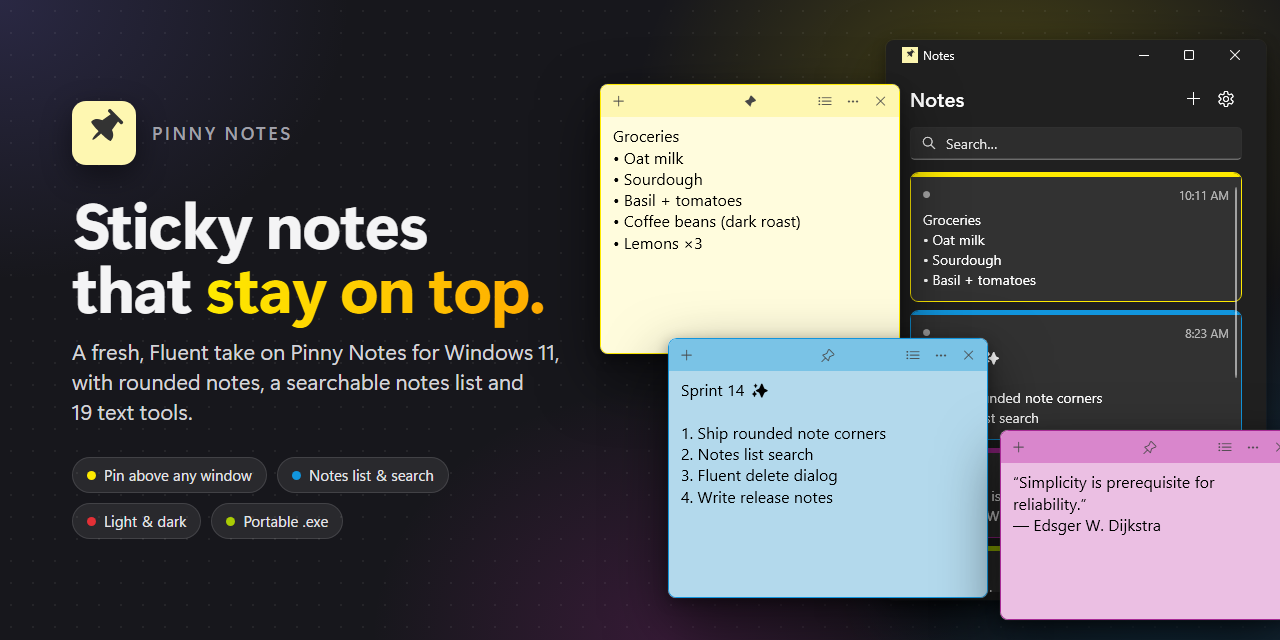
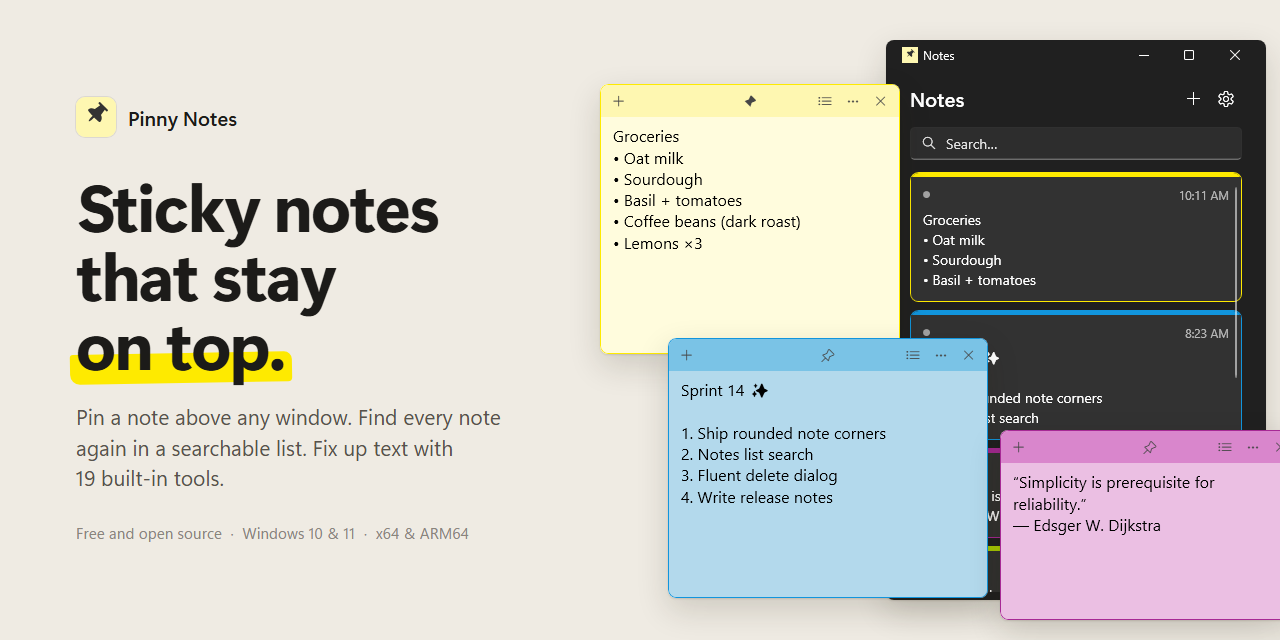
Redesign keyart and screenshots with flat backgrounds
Drop the glow spotlights, dot grid, gradient headline and chips for a
plain paper background, solid type and a highlighter accent.

diff --git a/assets/keyart/keyart.html b/assets/keyart/keyart.html
@@ -3,47 +3,26 @@
 <style>
   * { margin: 0; box-sizing: border-box; }
   html, body { width: 1280px; height: 640px; overflow: hidden; }
-  body {
-    font-family: "Segoe UI Variable Display", "Segoe UI", sans-serif;
-    color: #f4f4f5;
-    background:
-      radial-gradient(520px 420px at 78% 18%, rgba(254,234,0,.22), transparent 70%),
-      radial-gradient(480px 420px at 92% 88%, rgba(17,149,221,.26), transparent 70%),
-      radial-gradient(420px 360px at 52% 100%, rgba(167,41,149,.22), transparent 70%),
-      radial-gradient(500px 400px at 0% 0%, rgba(98,91,184,.25), transparent 70%),
-      #17171c;
-    position: relative;
-  }
-  body::after { /* fine dot grid */
-    content: ""; position: absolute; inset: 0; pointer-events: none;
-    background-image: radial-gradient(rgba(255,255,255,.06) 1px, transparent 1px);
-    background-size: 22px 22px;
-  }
-  .copy { position: absolute; left: 72px; top: 0; bottom: 0; width: 500px; display: flex; flex-direction: column; justify-content: center; z-index: 2; }
-  .brand { display: flex; align-items: center; gap: 16px; margin-bottom: 26px; }
-  .brand img { width: 64px; height: 64px; border-radius: 14px; box-shadow: 0 10px 30px rgba(0,0,0,.45); }
-  .brand span { font-size: 18px; letter-spacing: .14em; text-transform: uppercase; color: #a1a1aa; font-weight: 600; }
-  h1 { font-size: 64px; line-height: 1; font-weight: 700; letter-spacing: -.02em; }
-  h1 em { font-style: normal; background: linear-gradient(90deg, #FEEA00, #FFAB00); -webkit-background-clip: text; color: transparent; }
-  p.tag { margin-top: 18px; font-size: 22px; line-height: 1.35; color: #d4d4d8; font-weight: 400; }
-  .chips { margin-top: 30px; display: flex; flex-wrap: wrap; gap: 10px; }
-  .chip { font-family: "Segoe UI Variable Text", "Segoe UI", sans-serif; font-size: 15px; padding: 7px 14px; border-radius: 999px; background: rgba(255,255,255,.08); border: 1px solid rgba(255,255,255,.12); color: #e4e4e7; }
-  .chip i { display: inline-block; width: 9px; height: 9px; border-radius: 50%; margin-right: 8px; vertical-align: 1px; }
-
-  .win { position: absolute; border-radius: 8px; overflow: hidden; box-shadow: 0 24px 60px rgba(0,0,0,.55), 0 4px 14px rgba(0,0,0,.35), 0 0 0 1px rgba(255,255,255,.06); }
+  body { font-family: "Segoe UI Variable Display", "Segoe UI", sans-serif; color: #1c1b19; background: #efebe3; position: relative; }
+  .copy { position: absolute; left: 76px; top: 0; bottom: 0; width: 470px; display: flex; flex-direction: column; justify-content: center; }
+  .brand { display: flex; align-items: center; gap: 12px; margin-bottom: 34px; font-size: 20px; font-weight: 600; }
+  .brand img { width: 40px; height: 40px; border-radius: 9px; box-shadow: 0 0 0 1px rgba(0,0,0,.08); }
+  h1 { font-size: 66px; line-height: 1.04; font-weight: 700; letter-spacing: -.025em; }
+  h1 mark { background: none; color: inherit; position: relative; white-space: nowrap; }
+  h1 mark::before { content: ""; position: absolute; left: -6px; right: -8px; bottom: 4px; height: 30px; z-index: -1;
+                    background: #FEEA00; border-radius: 3px 8px 4px 10px; transform: rotate(-1deg); }
+  p.tag { margin-top: 24px; font-size: 21px; line-height: 1.45; color: #57534c; font-family: "Segoe UI Variable Text", "Segoe UI", sans-serif; }
+  p.meta { margin-top: 30px; font-size: 15px; color: #8a857c; font-family: "Segoe UI Variable Text", "Segoe UI", sans-serif; letter-spacing: .01em; }
+  .win { position: absolute; border-radius: 8px; overflow: hidden;
+         box-shadow: 0 1px 2px rgba(40,30,10,.12), 0 12px 32px rgba(40,30,10,.16); }
   .win img { display: block; }
 </style></head>
 <body>
   <div class="copy">
-    <div class="brand"><img src="img/icon.svg" alt=""><span>Pinny Notes</span></div>
-    <h1>Sticky notes<br>that <em>stay on top.</em></h1>
-    <p class="tag">A fresh, Fluent take on Pinny Notes for Windows&nbsp;11, with rounded notes, a searchable notes list and 19&nbsp;text&nbsp;tools.</p>
-    <div class="chips">
-      <span class="chip"><i style="background:#FEEA00"></i>Pin above any window</span>
-      <span class="chip"><i style="background:#1195DD"></i>Notes list &amp; search</span>
-      <span class="chip"><i style="background:#E33036"></i>Light &amp; dark</span>
-      <span class="chip"><i style="background:#AACC04"></i>Portable .exe</span>
-    </div>
+    <div class="brand"><img src="img/icon.svg" alt="">Pinny Notes</div>
+    <h1>Sticky notes that stay <mark>on top.</mark></h1>
+    <p class="tag">Pin a note above any window. Find every note again in a searchable list. Fix up text with 19&nbsp;built&#8209;in&nbsp;tools.</p>
+    <p class="meta">Free and open source &nbsp;·&nbsp; Windows 10 &amp; 11 &nbsp;·&nbsp; x64 &amp; ARM64</p>
   </div>
 
   <div class="win" style="left:886px; top:40px; z-index:1"><img src="img/dark-Notes-78-78.png"></div>

diff --git a/assets/keyart/scene.html b/assets/keyart/scene.html
@@ -4,17 +4,11 @@
   * { margin: 0; box-sizing: border-box; }
   html, body { width: 1280px; height: 720px; overflow: hidden; }
   body { position: relative; font-family: "Segoe UI Variable Text", "Segoe UI", sans-serif; }
-  body.light { background:
-      radial-gradient(700px 500px at 85% 15%, #c9dcff, transparent 70%),
-      radial-gradient(600px 500px at 10% 90%, #ffe7c2, transparent 70%),
-      radial-gradient(800px 600px at 50% 50%, #eef1f8, transparent 80%), #dfe6f3; }
-  body.dark { background:
-      radial-gradient(700px 500px at 85% 15%, rgba(17,149,221,.35), transparent 70%),
-      radial-gradient(600px 500px at 10% 95%, rgba(167,41,149,.30), transparent 70%),
-      radial-gradient(600px 500px at 45% 40%, rgba(98,91,184,.22), transparent 70%), #121218; }
+  body.light { background: #efebe3; }
+  body.dark { background: #0f0f11; }
   .win { position: absolute; border-radius: 8px; overflow: hidden;
-         box-shadow: 0 18px 48px rgba(0,0,0,.28), 0 3px 10px rgba(0,0,0,.18), 0 0 0 1px rgba(0,0,0,.06); }
-  .dark .win { box-shadow: 0 22px 56px rgba(0,0,0,.6), 0 3px 12px rgba(0,0,0,.4), 0 0 0 1px rgba(255,255,255,.07); }
+         box-shadow: 0 1px 2px rgba(40,30,10,.12), 0 12px 32px rgba(40,30,10,.16); }
+  .dark .win { box-shadow: 0 1px 2px rgba(0,0,0,.5), 0 14px 36px rgba(0,0,0,.5), 0 0 0 1px rgba(255,255,255,.06); }
   .win img { display: block; }
 </style></head>
 <body>
